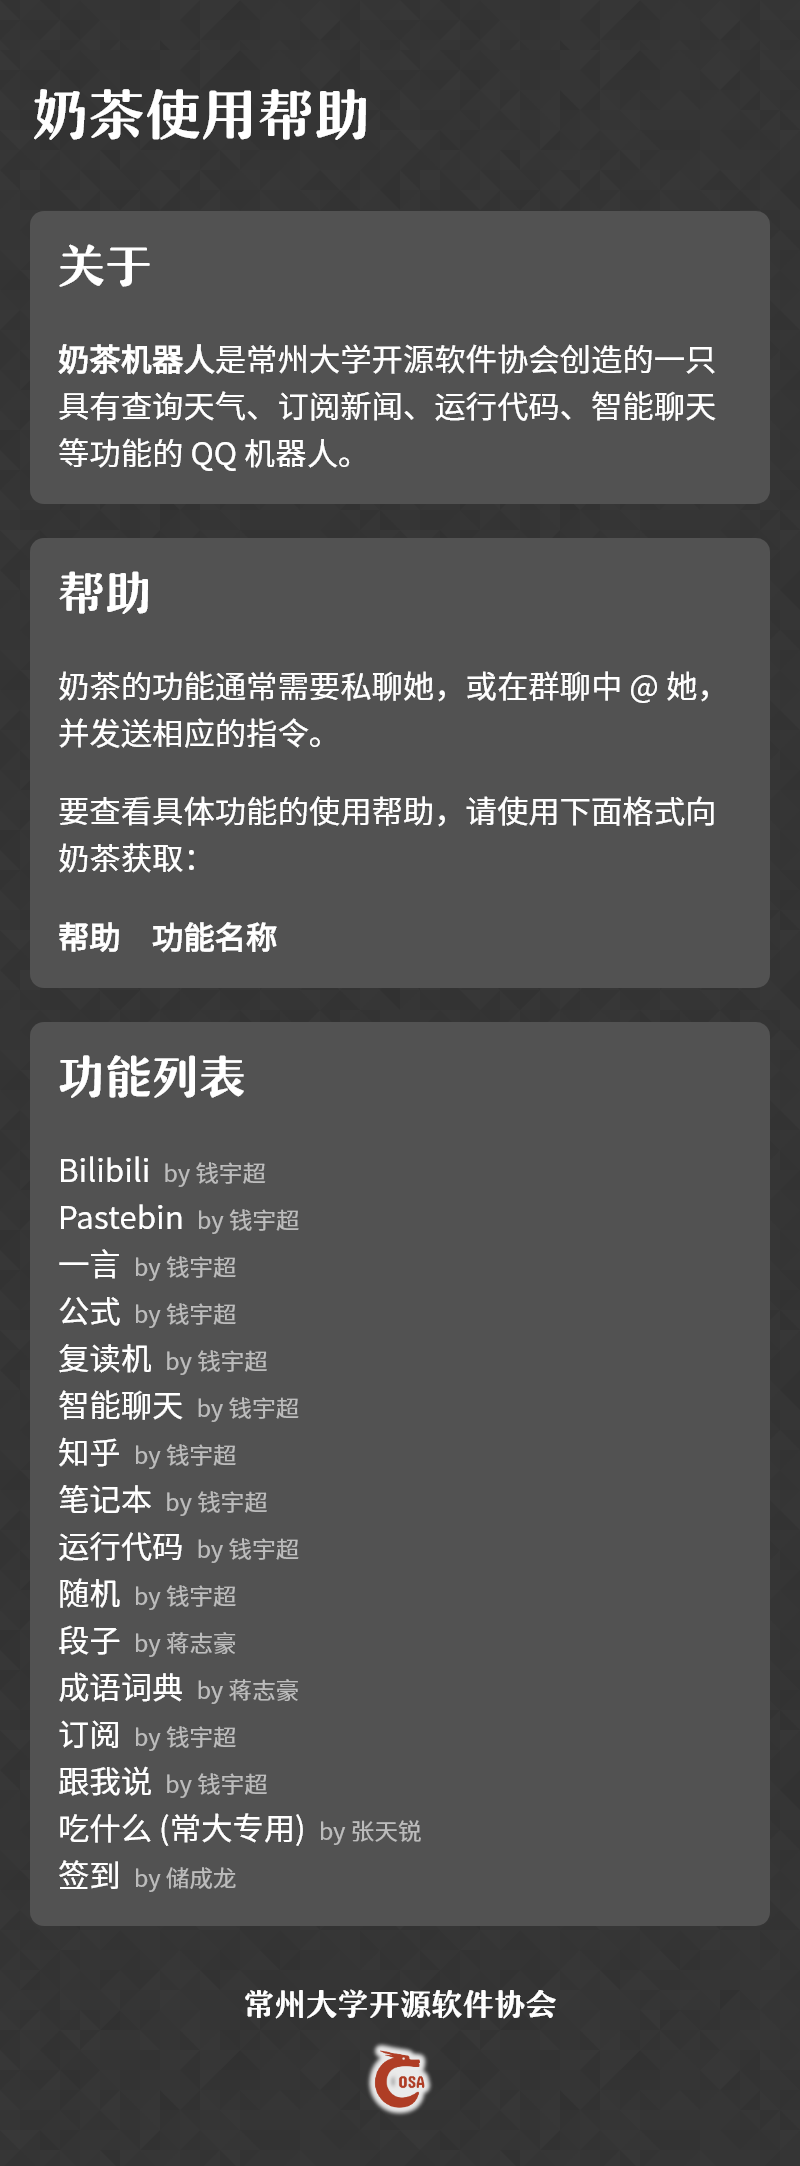
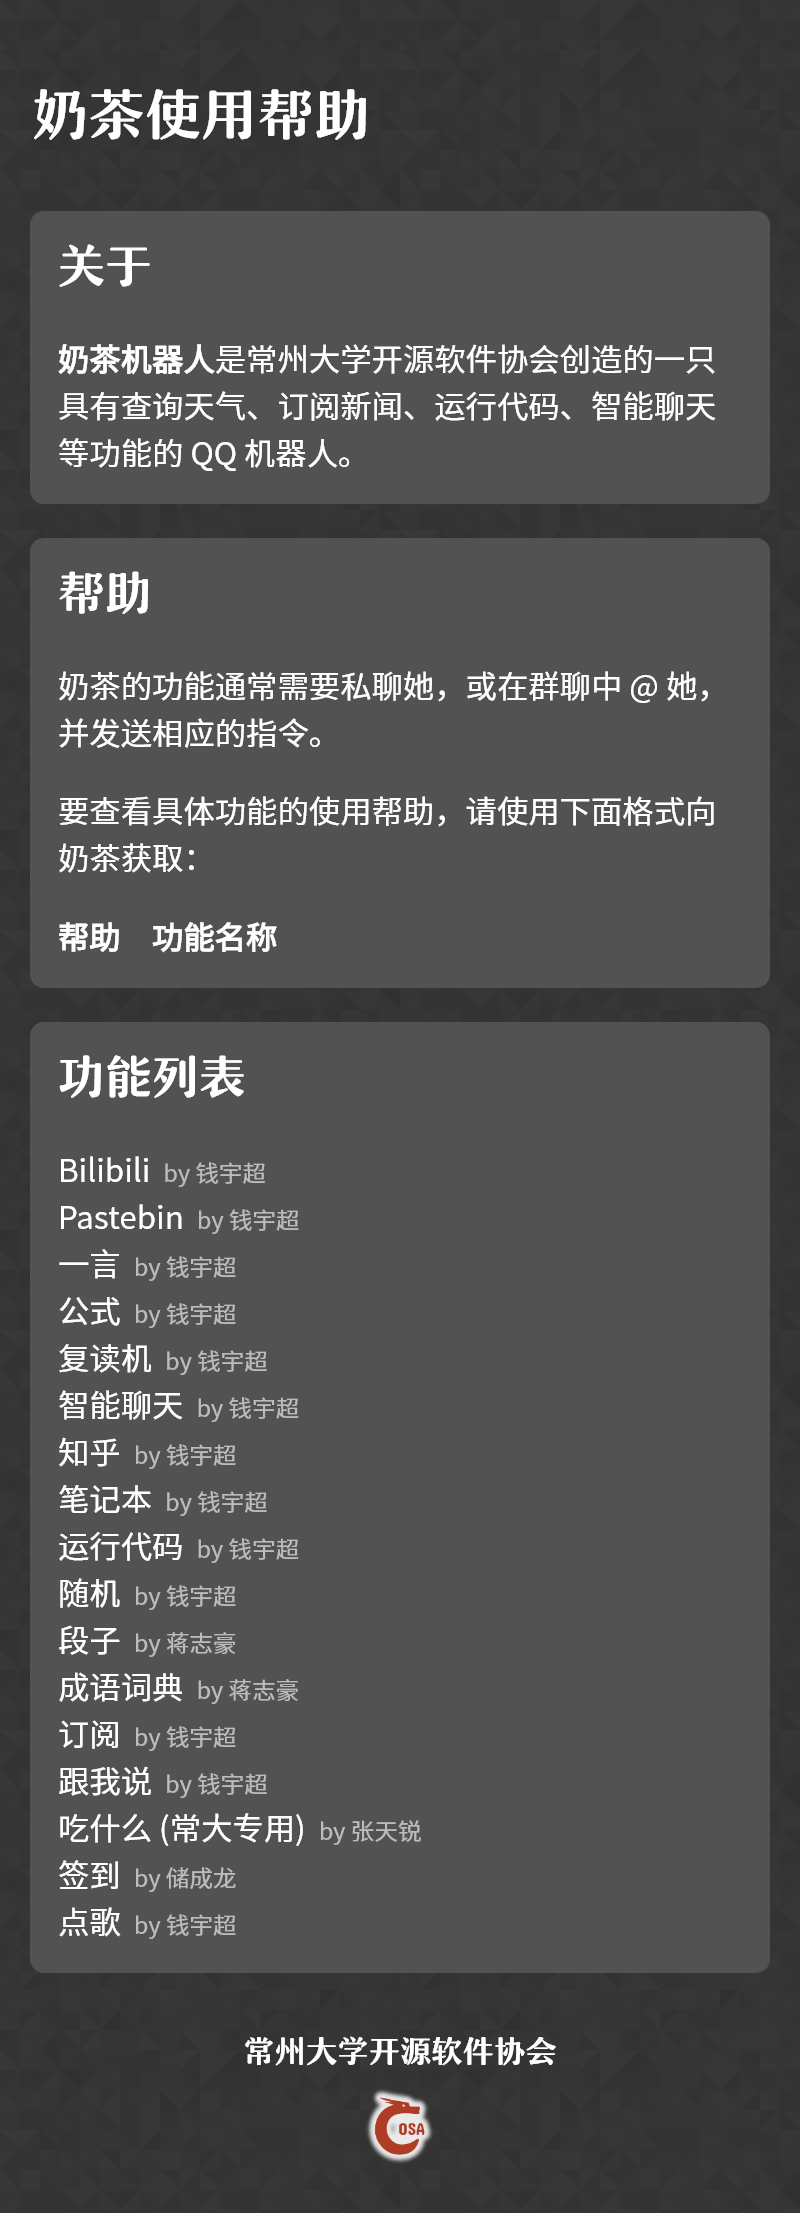
更新点歌帮助文档

diff --git a/manual/点歌.html b/manual/点歌.html
@@ -1,0 +1,64 @@
+<h1>点歌</h1>
+
+<section>
+  <h2>说明</h2>
+  <p>
+    本功能用于点歌。
+  </p>
+</section>
+
+<section>
+  <h2>示例</h2>
+  <div class="bubble-wrapper right">
+    <div class="bubble">
+      <p>
+        点歌 星空
+      </p>
+    </div>
+  </div>
+  <div class="bubble-wrapper left">
+    <div class="bubble">
+      <p>
+        <img src="./img/music-xingkong.png" alt="">
+      </p>
+    </div>
+  </div>
+  <div class="bubble-wrapper right">
+    <div class="bubble">
+      <p>
+        来一首告白气球
+      </p>
+    </div>
+  </div>
+  <div class="bubble-wrapper left">
+    <div class="bubble">
+      <p>
+        <img src="./img/music-gaobaiqiqiu.png" alt="">
+      </p>
+    </div>
+  </div>
+</section>
+
+<section class="bg-color-1">
+  <h2>格式</h2>
+  <p>
+    点歌　[歌曲名称]
+  </p>
+</section>
+
+<section class="bg-color-2">
+  <h2>命令别名</h2>
+  <p>
+    music, 点歌, 音乐
+  </p>
+</section>
+
+<section class="bg-color-3">
+  <h2>触发机制</h2>
+  <p>
+    通过上述格式或「来一首XXX」等可以触发本功能。
+  </p>
+</section>
+
+<link rel="stylesheet" href="css/style.css">
+<script src="js/genpage.js"></script>

diff --git a/manual/index.html b/manual/index.html
@@ -37,6 +37,7 @@
     跟我说 <span class="author">by 钱宇超</span><br>
     吃什么 (常大专用) <span class="author">by 张天锐</span><br>
     签到 <span class="author">by 储成龙</span><br>
+    点歌 <span class="author">by 钱宇超</span><br>
   </p>
 </section>
 

diff --git a/aki/plugins/music.py b/aki/plugins/music.py
@@ -33,7 +33,7 @@ async def search_song_id(keyword: str) -> Optional[int]:
 
 @on_command('music', aliases=['点歌', '音乐'], only_to_me=False)
 async def music(session: CommandSession):
-    keyword = session.get('keyword', prompt='你想点什么歌呢？')
+    keyword = session.get('keyword', prompt='你想听什么歌呢？')
     song_id = await search_song_id(keyword)
     if song_id is None:
         session.finish('没有找到这首歌呢')
